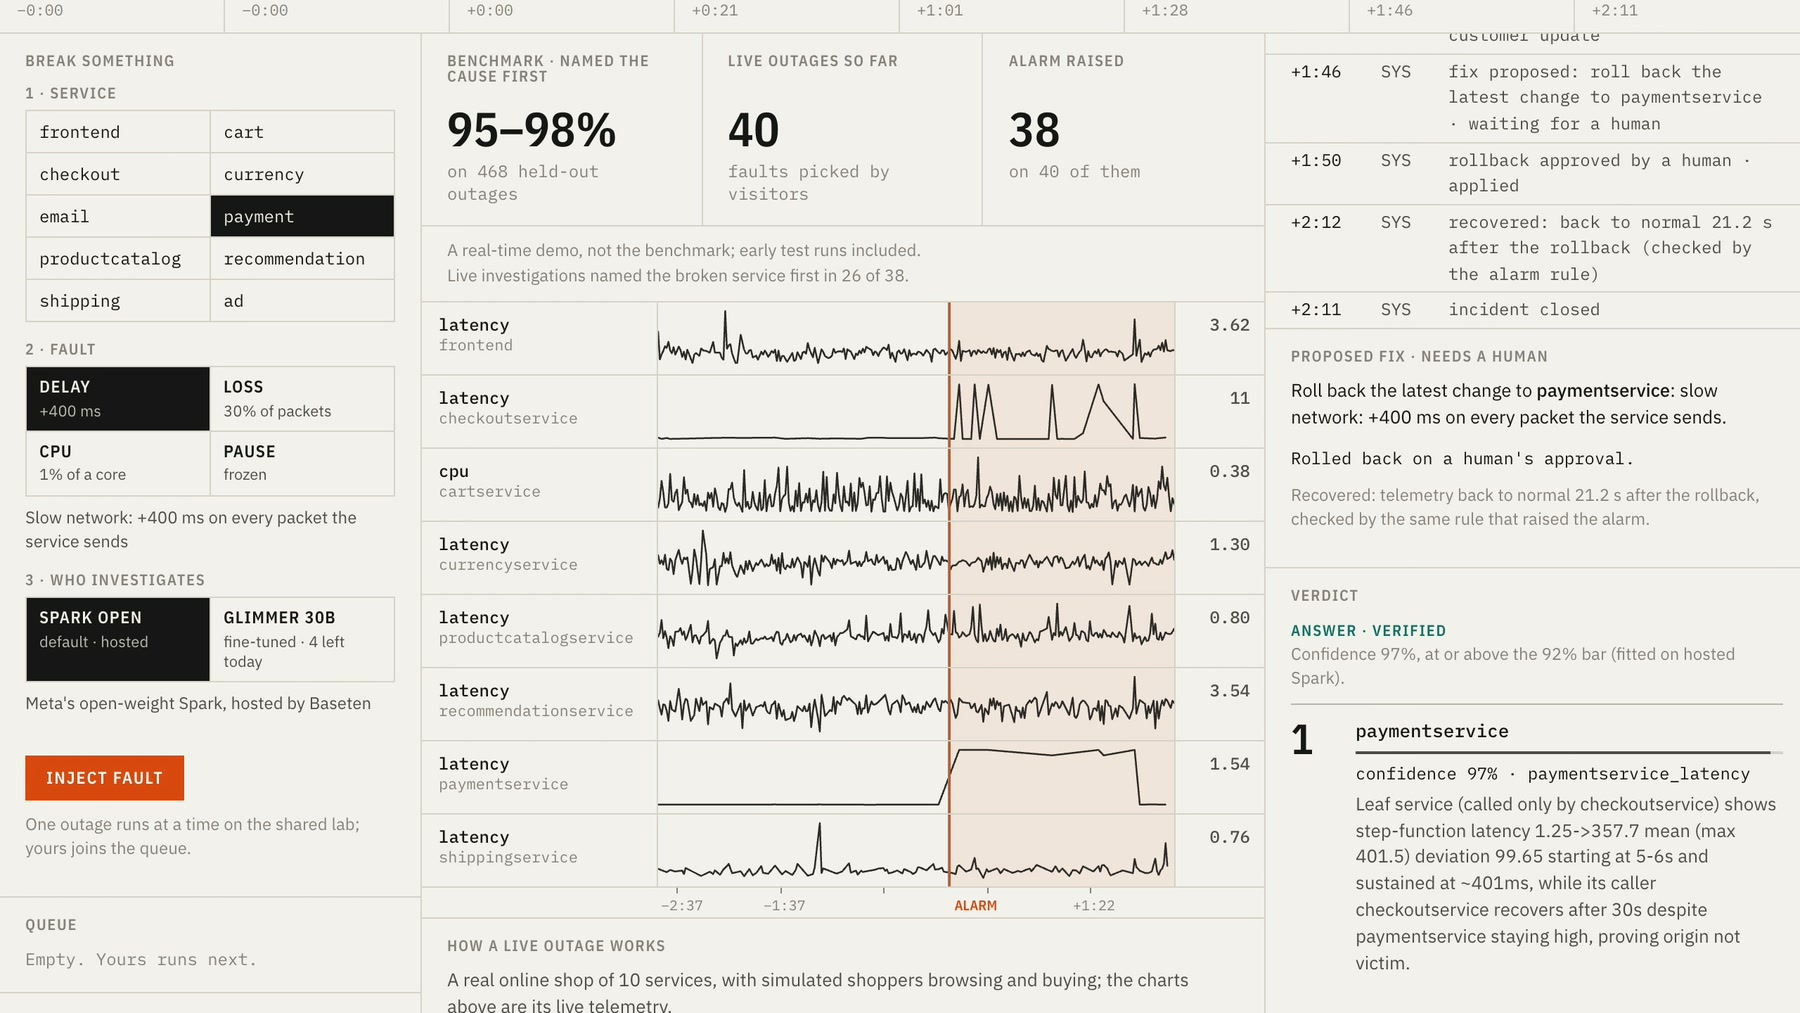
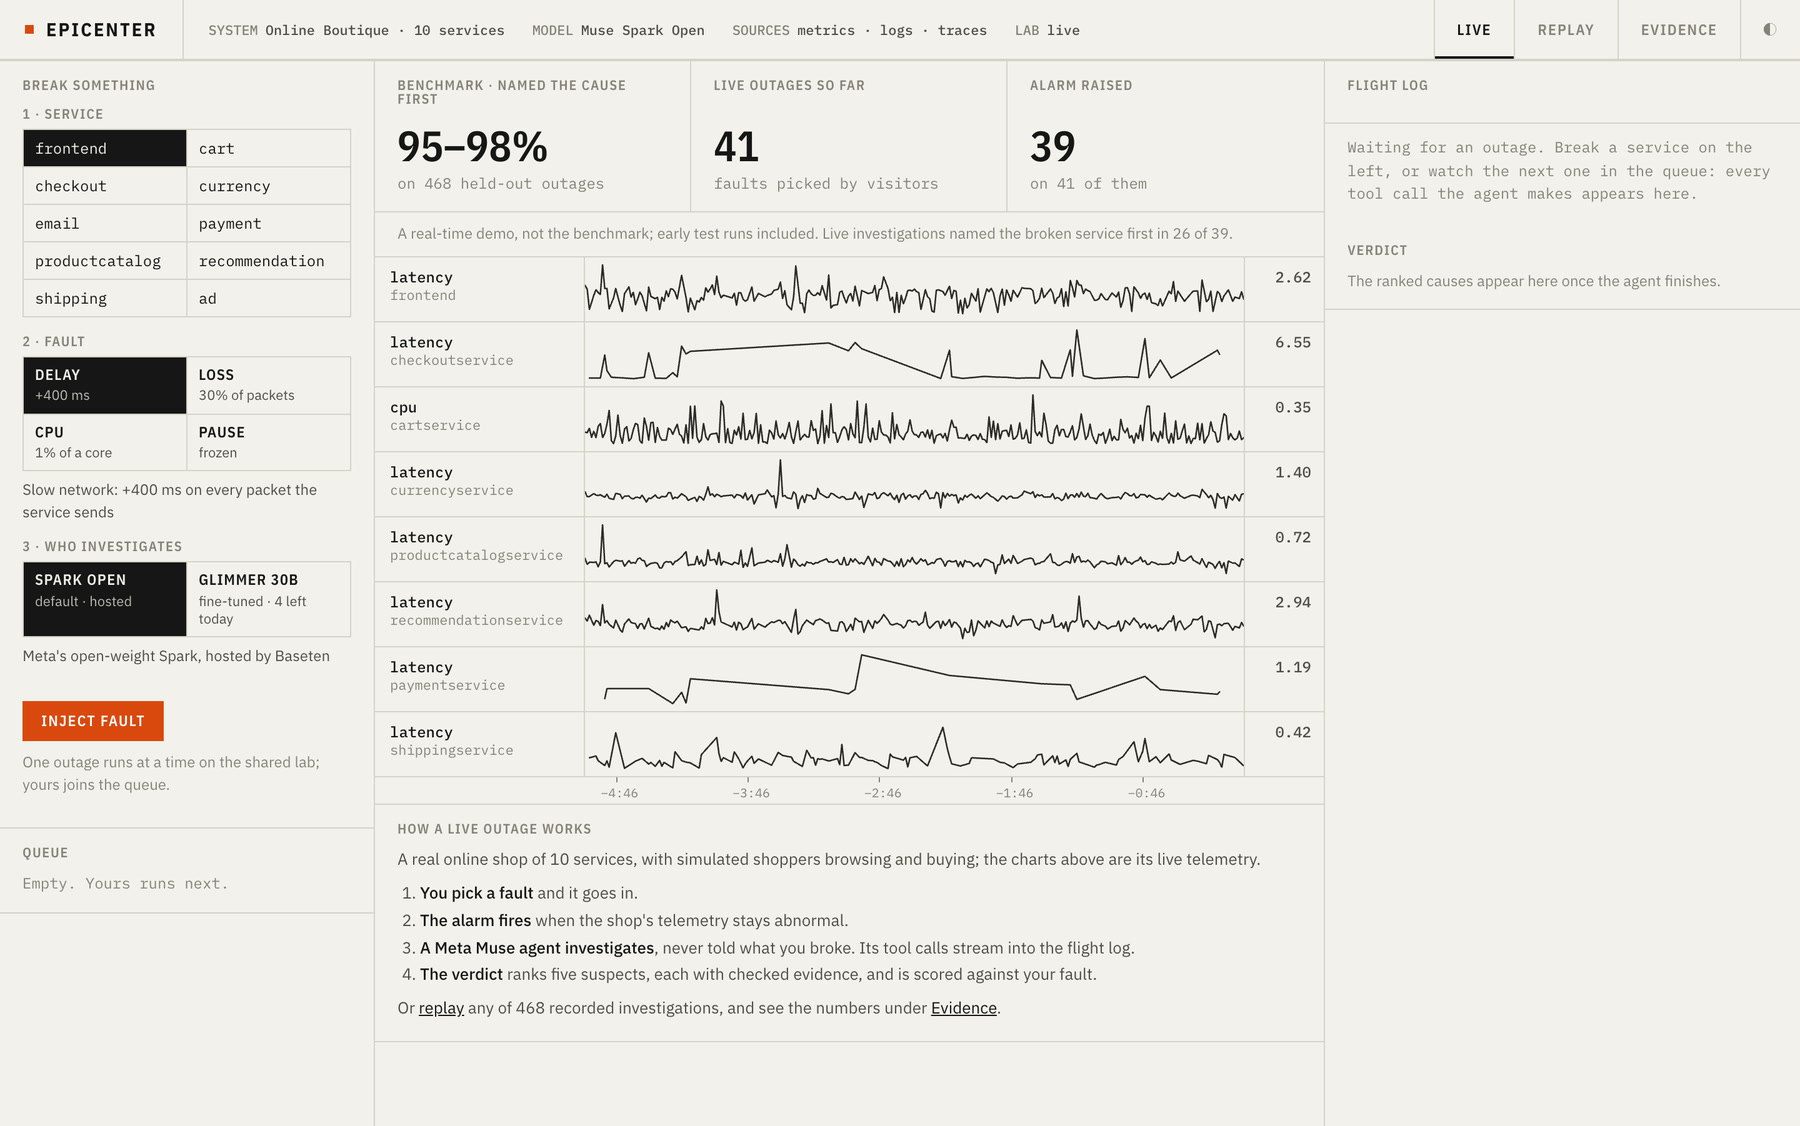
Show the live console ready for a fault as the README's first image
The hero is now the whole live page before anything is broken, with nothing
cut off, so a visitor sees the menu, the tallies and the live charts at a
glance. The GIF caption below carries the recorded outage's facts.

Changed region(s): [[0.0, 0.0, 0.9956, 1.0], [0.0, 0.7345, 0.1867, 0.8569], [0.0, 0.8875, 0.0311, 0.9181]]

diff --git a/README.md b/README.md
@@ -2,8 +2,8 @@
 
 [![Live demo](https://img.shields.io/badge/live_demo-epicenter.watch-d6451a?style=flat-square&labelColor=2b2b2b)](https://epicenter.watch) [![Model on Hugging Face](https://img.shields.io/badge/Hugging_Face-Glimmer_30B_LoRA-ffd21e?style=flat-square&logo=huggingface&logoColor=ffd21e&labelColor=2b2b2b)](https://huggingface.co/maxkempler/epicenter-glimmer-30b-rca-lora) [![License: MIT](https://img.shields.io/badge/license-MIT-6e6c66?style=flat-square&labelColor=2b2b2b)](LICENSE) [![Tests](https://img.shields.io/badge/tests-191_passing-6e6c66?style=flat-square&labelColor=2b2b2b)](tests)
 
-<p align="center"><a href="https://epicenter.watch"><img src="media/hero.jpg" alt="The live lab after a real outage: payment selected with a +400 ms delay, the charts with paymentservice latency stepping up at the alarm, the proposed rollback of the latest change to paymentservice approved by a person, recovery 21.2 s later, and the verified verdict with paymentservice first at 97%" width="900"></a></p>
-<p align="center"><em>A real outage on November 2: paymentservice named first at 97%, verified, rolled back on approval, recovered 21.2&nbsp;s later.</em></p>
+<p align="center"><a href="https://epicenter.watch"><img src="media/hero.jpg" alt="The live console on epicenter.watch, ready for a fault: the menu to pick a service, a fault and the model that investigates, the inject button, the benchmark and live tallies, eight live telemetry charts from the shop, and the empty flight log and verdict panels" width="900"></a></p>
+<p align="center"><em>The live console on <a href="https://epicenter.watch">epicenter.watch</a>: pick a service and a fault, then watch the agent find it.</em></p>
 <p align="center"><a href="https://epicenter.watch"><img src="https://img.shields.io/badge/Try_it_live-epicenter.watch-d6451a?style=for-the-badge&amp;labelColor=2b2b2b" alt="Try it live at epicenter.watch" height="36"></a></p>
 
 **Epicenter watches server and service telemetry, detects when it departs from normal, and sends a Meta Muse agent to find which component caused it.** The agent queries metrics, logs, traces and the call graph, and returns five ranked root causes. A deterministic verifier checks the evidence behind every cause, and the agent drafts the internal ticket note and the customer update, citing that evidence sentence by sentence.
@@ -75,8 +75,8 @@ The same agent loop runs on three Meta models: Muse Spark through the Meta Model
 - **Approve the fix.** When the first cause passed the verifier, the lab looks the blamed service up in its change log (the faults it applied, as a deploy history records changes). If that service has a recorded change, it proposes rolling it back and waits 45 s for a human to approve. On approval it reverts the change and confirms recovery with the same rule that raised the alarm: in all nine recorded approvals, telemetry was back to normal 20.2 to 37.5 s later. A wrong diagnosis finds no change to roll back, so nothing is proposed. Unapproved, the lab restores itself anyway and records the proposal as timed out. The rollback only ever reverses the lab's own fault.
 - **Why first, and why not first.** Each cause in a verdict opens a panel: its strongest cited evidence against the first cause's and the verifier's bar, the verifier's decision, the tool calls it cites (each one finds its step in the flight log), and its blast radius. The blast radius lists the services that call into it according to the outage's traces, which of them showed problems, and, on the live shop, the customer-facing flows that pass through it (browsing products, the cart, checkout). That is what a customer update is written from.
 
-<p align="center"><img src="media/demo.gif" alt="The same outage from start to finish: paymentservice is slowed, the alarm fires, the agent investigates, ranks paymentservice first at 97% and verified, a person approves the proposed rollback, and the shop recovers 21.2 s later" width="900"></p>
-<p align="center"><em>The same outage from start to finish, sped up.</em></p>
+<p align="center"><img src="media/demo.gif" alt="A real outage on November 2, from start to finish: paymentservice is slowed, the alarm fires, the agent investigates, ranks paymentservice first at 97% and verified, a person approves the proposed rollback, and the shop recovers 21.2 s later" width="900"></p>
+<p align="center"><em>A real outage on November 2, sped up: paymentservice named first at 97%, verified, rolled back, recovered 21.2&nbsp;s later.</em></p>
 
 Every service is measured from its callers' spans as well as its own, the way a service mesh would, so even an untraced service shows up. The calibration batch after that change: alarm on 9 of 9 faults, the broken service ranked first on 6 and in the top three on 8. The three misses are a starved checkout service read as its slow callee, cart-service packet loss read as the Redis it talks to, and a starved frontend, where every request looks slow.
 
